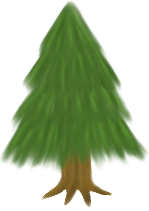
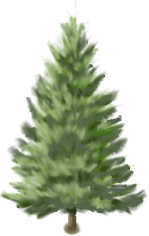
pine tree prettification

diff --git a/lib/marco/initializers/small_pine_init.rb b/lib/marco/initializers/small_pine_init.rb
@@ -7,7 +7,7 @@ class TilesInitializer < Initializer
 	register do |r|
 		puts "Initializing Small Pine"
 
-		r.register_sprite :small_pine, UI::Sprites::BaseSprite.new('pine_tree.png', 74, 195)
+		r.register_sprite :small_pine, UI::Sprites::BaseSprite.new('pine_tree.png', 70, 230)
 		r.register_entity :small_pine, Entities::SmallPine::SmallPine
 		r.register_inventory_sprite :pile_of_wood, UI::Sprites::BaseSprite.new('pile_of_wood.png', 45, 65) 
 	end
